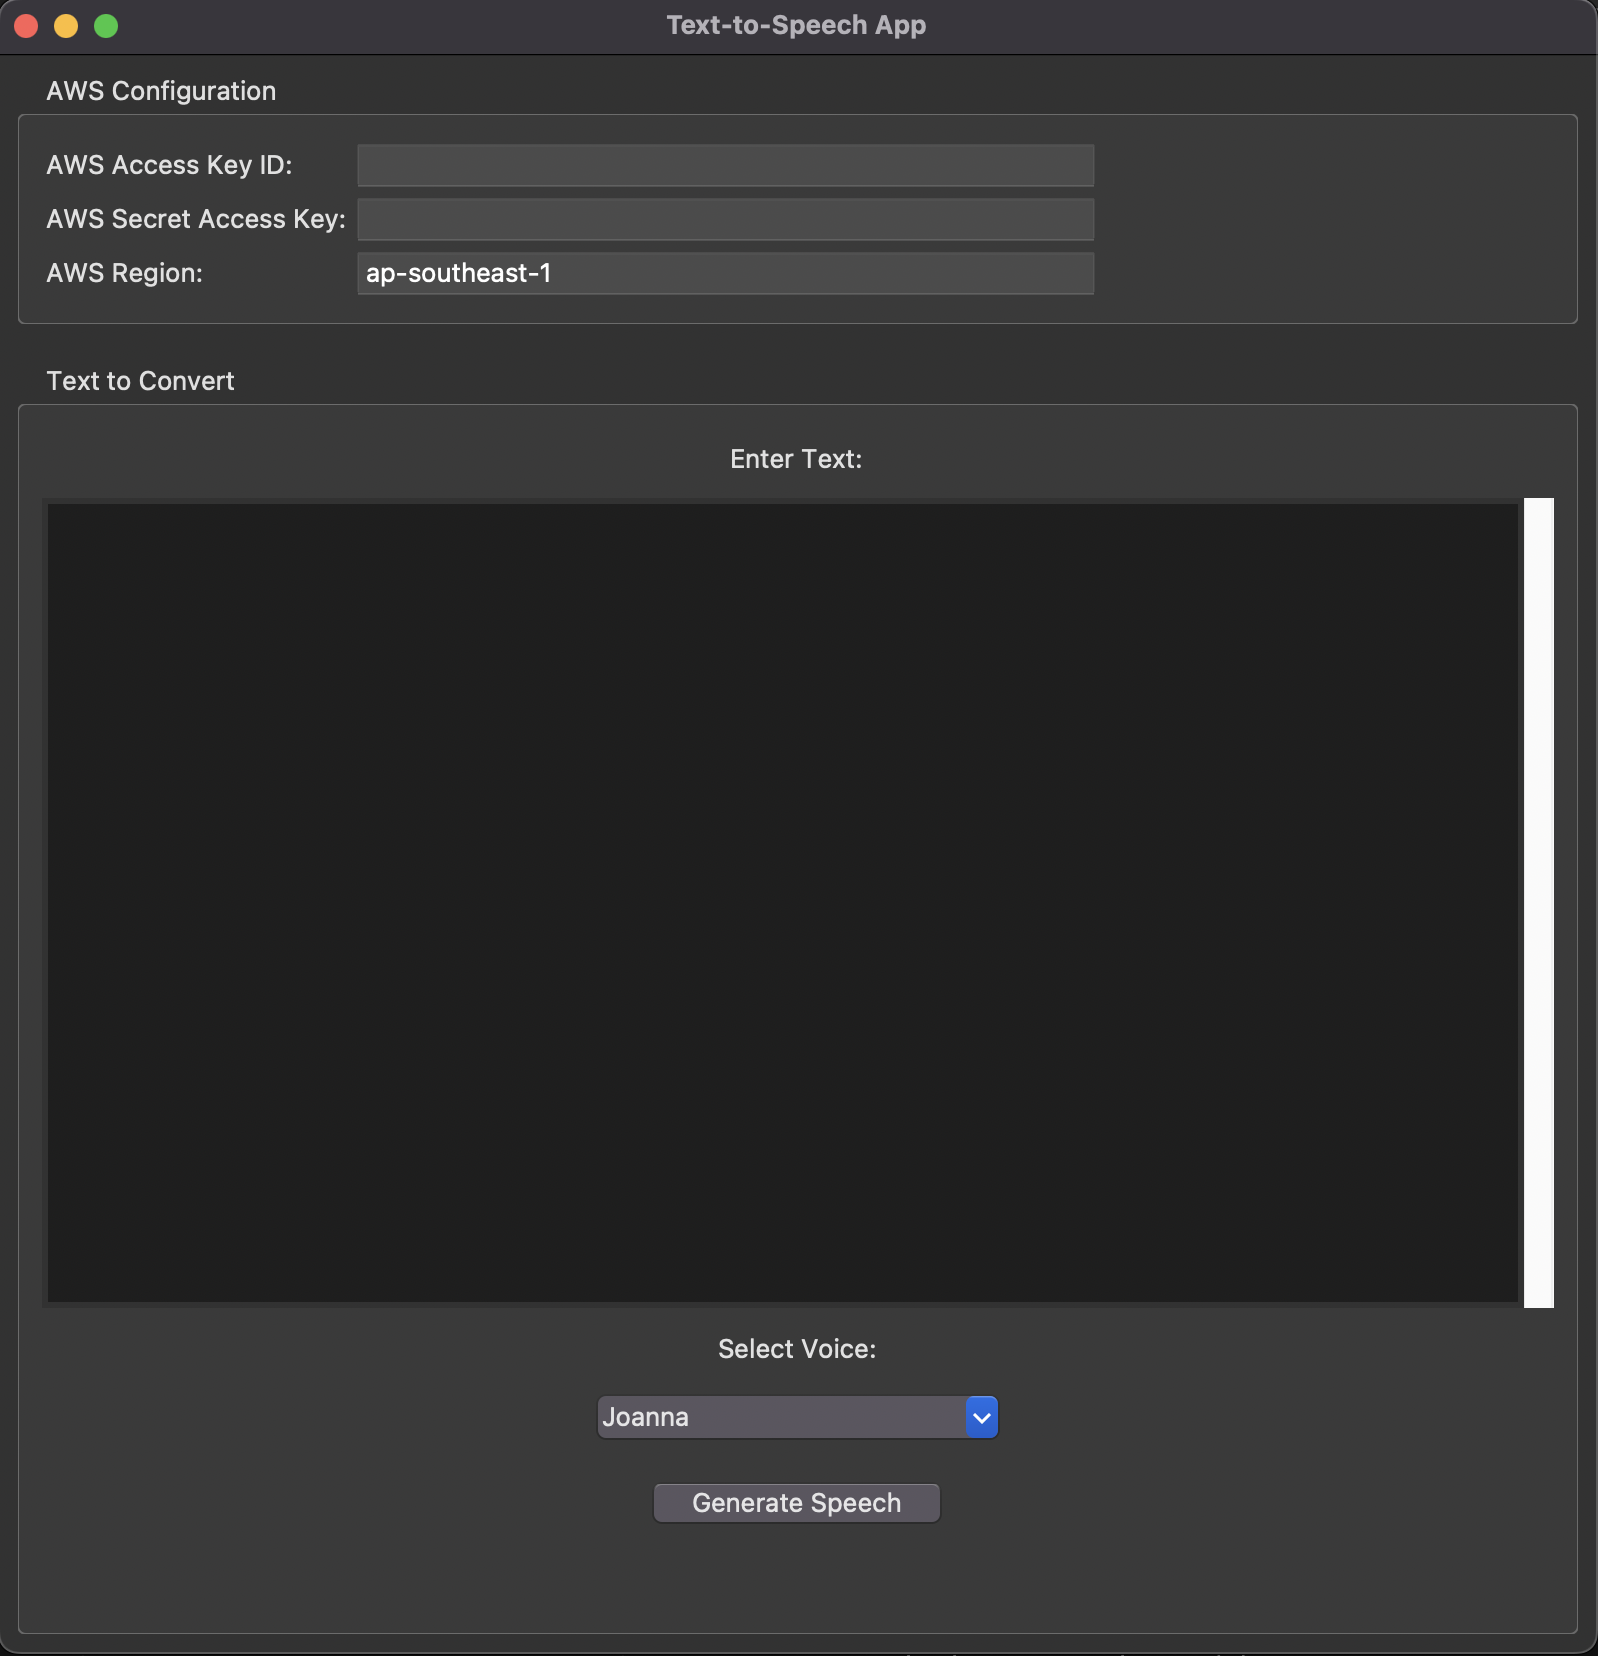
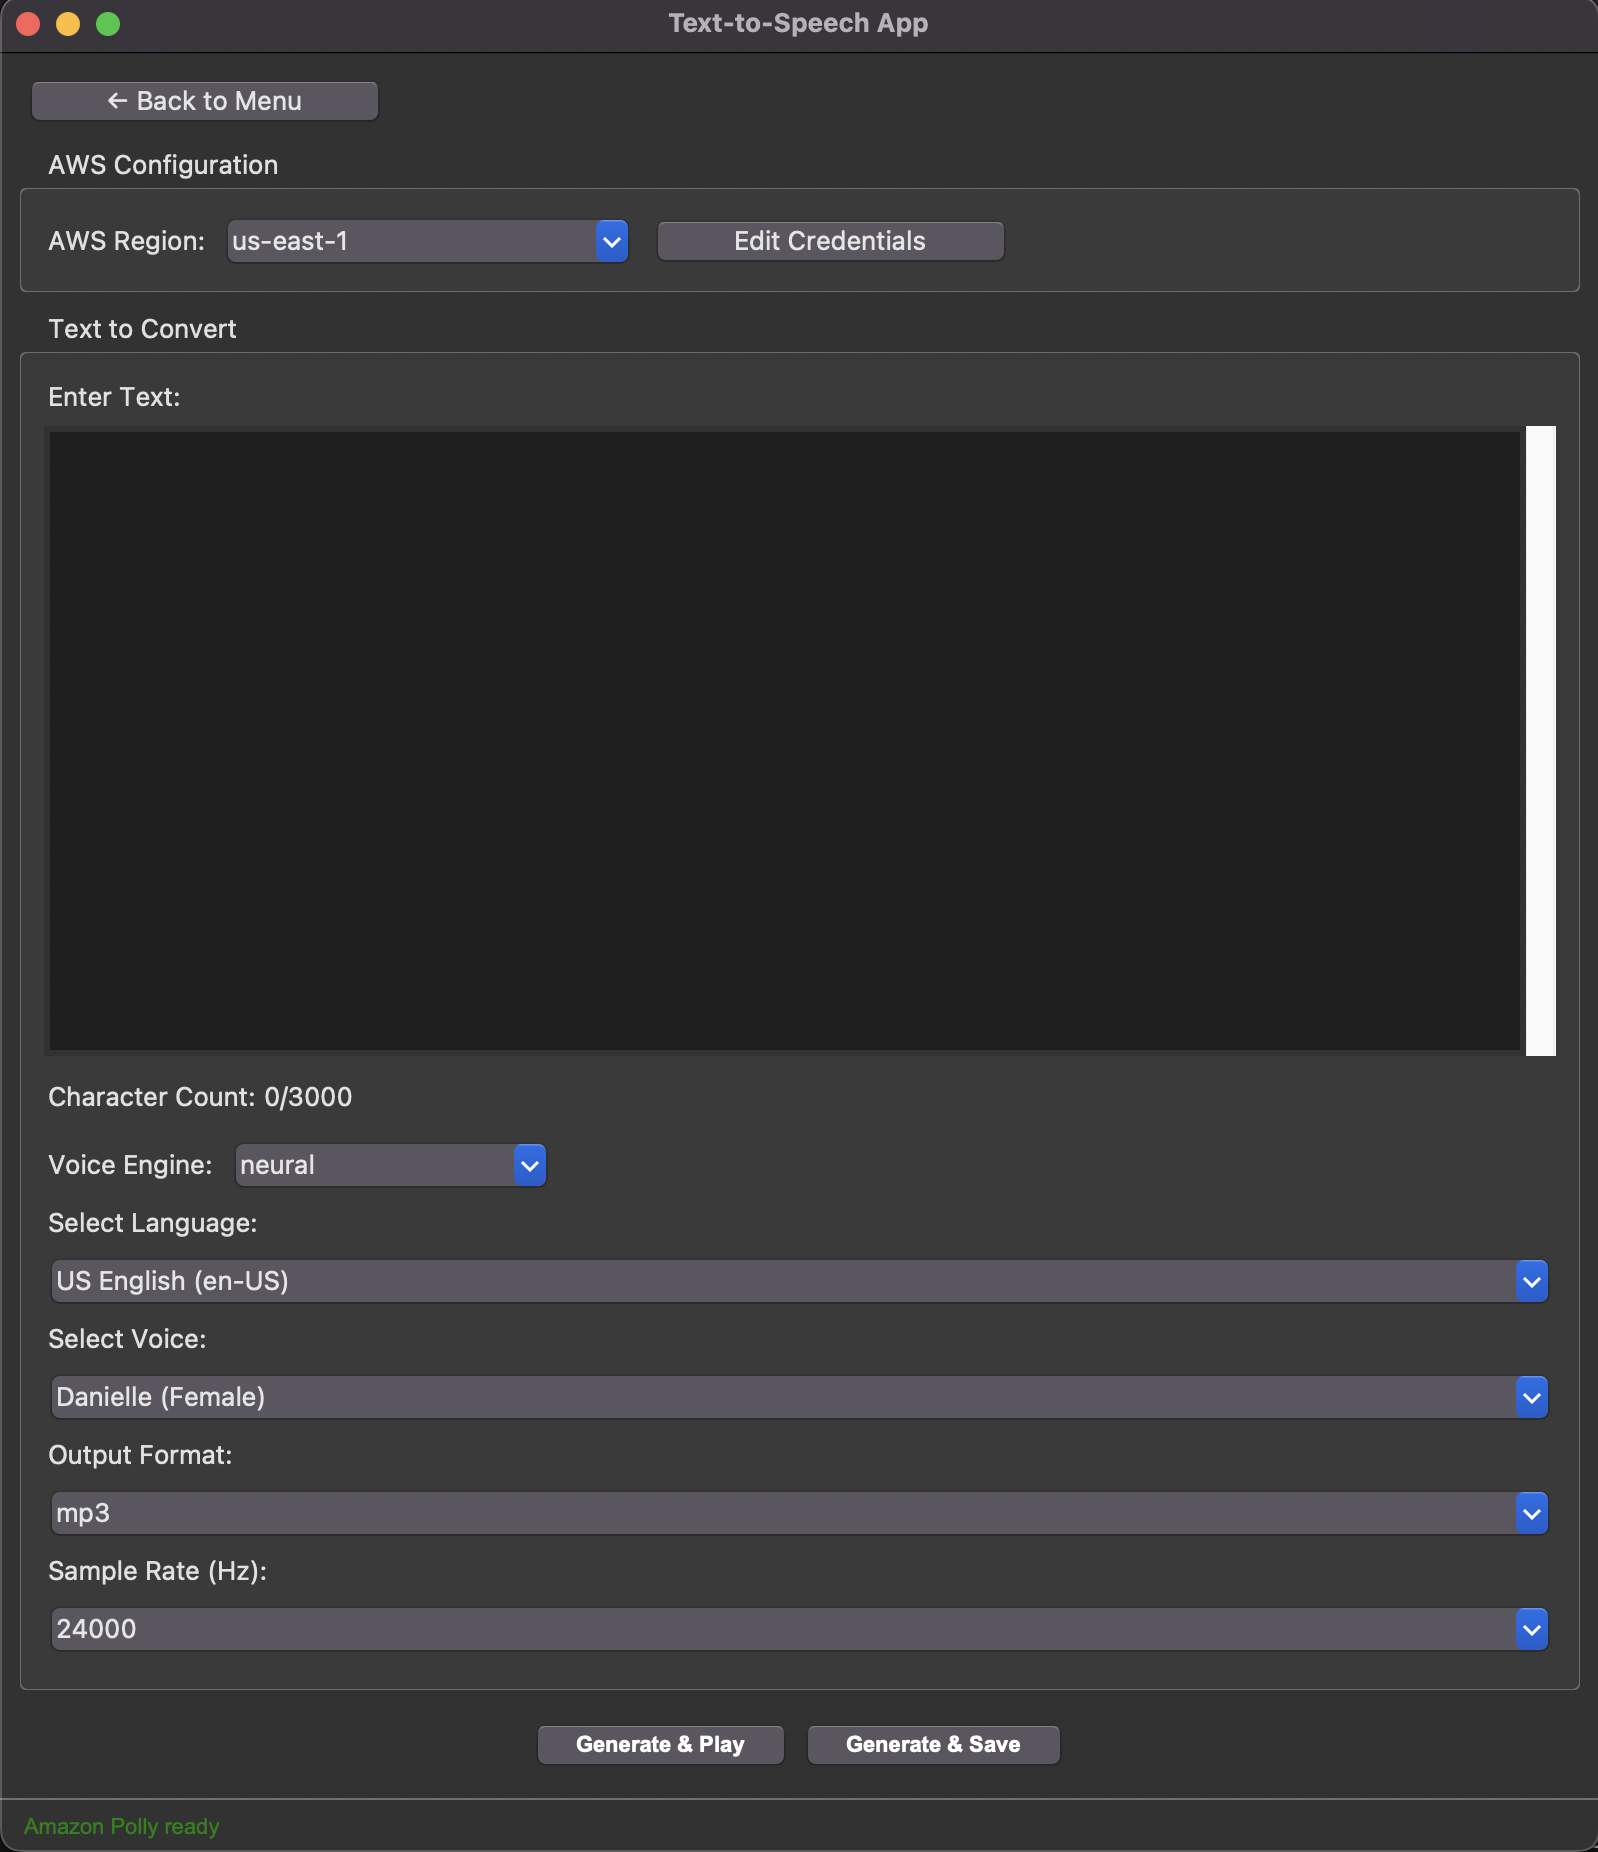
Update README with features, user guide, and new images

diff --git a/README.md b/README.md
@@ -6,8 +6,16 @@ A Python Text-to-Speech App using Amazon Polly TTS Service. This app takes text 
 
 ## Features
 - Convert text to speech using AWS Polly
-- Outputs MP3 files to your Downloads folder
-- (Coming soon...) Plays converted audio without saving audio
+- Region selection with automatic engine detection
+- Real-time character counting (3000 char limit)
+- Support for multiple voice engines (Standard, Neural, Long-form, Generative)
+- Multiple language and voice selection
+- Multiple output formats (mp3, ogg_vorbis, pcm)
+- Multiple sample rate
+- Audio Generation Options:
+    - Instant playback ("Generate & Play")
+    - Save to Downloads folder ("Generate & Save")
+- Save and edit AWS credentials 
 
 ## Setup Guide
 
@@ -70,26 +78,47 @@ A Python Text-to-Speech App using Amazon Polly TTS Service. This app takes text 
 3. Double click on the zip file to open it
 4. Double click on the TTSApp to open the app
 
-## Usage
-### 1. Enter AWS Credentials:
-- Open the app
-- In the "AWS Configuration" section, enter:
+## User Guide for AWS Polly
+
+### 1. Select Amazon Polly TTS
+
+<img src="images/main_nav.png" width="800" style="border: 2px solid grey; border-radius: 10px;"><br>
+- Launch the application and select Amazon Polly TTS
+
+---
+
+### 2. Credential Configuration
+
+<img src="images/polly_auth.png" width="800" style="border: 2px solid grey; border-radius: 10px;"><br>
+
+- In the "AWS Credentials Setup" section, enter credentials from your downloaded .csv file:
     - AWS Access Key ID (from your downloaded .csv)
     - AWS Secret Access Key (from your downloaded .csv)
-    - AWS Region (default: `ap-southeast-1`)
+- Enable ☑ Remember credentials for automatic login
+- Click **"Save & Continue"**
 
-### 2. Enter Text
-Type or paste your text into the large text box.
+---
 
-### 3. Select Voice
-Choose from available voices:
-- Joanna (Female, English)
-- Matthew (Male, English)
-- Amy (Female, English)
-- Brian (Male, English)
+### 3. Text-to-Speech Conversion
 
-### 4. Generate Audio
-Click "Generate Speech" to:
-1. Convert text to speech using AWS Polly
-2. Save as MP3 in your Downloads folder with filename format: tts_output_[VOICE]_[TIMESTAMP].mp3
-3. The app will show the save path in the status message
+<img src="images/Ui.png" width="800" style="border: 2px solid grey; border-radius: 10px;"><br>
+
+1. Select AWS region from dropdown (Recommended: us-east-1)
+2. Type or paste your text into the large text box. Character count available.
+3. Select Configurations:
+    - Voice Engine
+    - Language
+    - Voice
+4. Audio Settings (for "Generate & Save")
+    - Output Format
+    - Sample Rate
+5. Generate Audio:
+    - Press "Generate & Play" to convert your text and play audio immediately
+    - Press "Generate & Save" to convert your text and save audio file to your Downloads folder (The app will show the save path in the status message)
+
+## Project Roadmap
+
+- Transform app into an app that supports multiple TTS service
+- Make the app available for Windows and Linux (x86 architecture)
+- Add more features such as tracking free characters count remaining
+- Usage of AI assistance to refine the text (e.g., fix typos, grammar errors, improve language)
